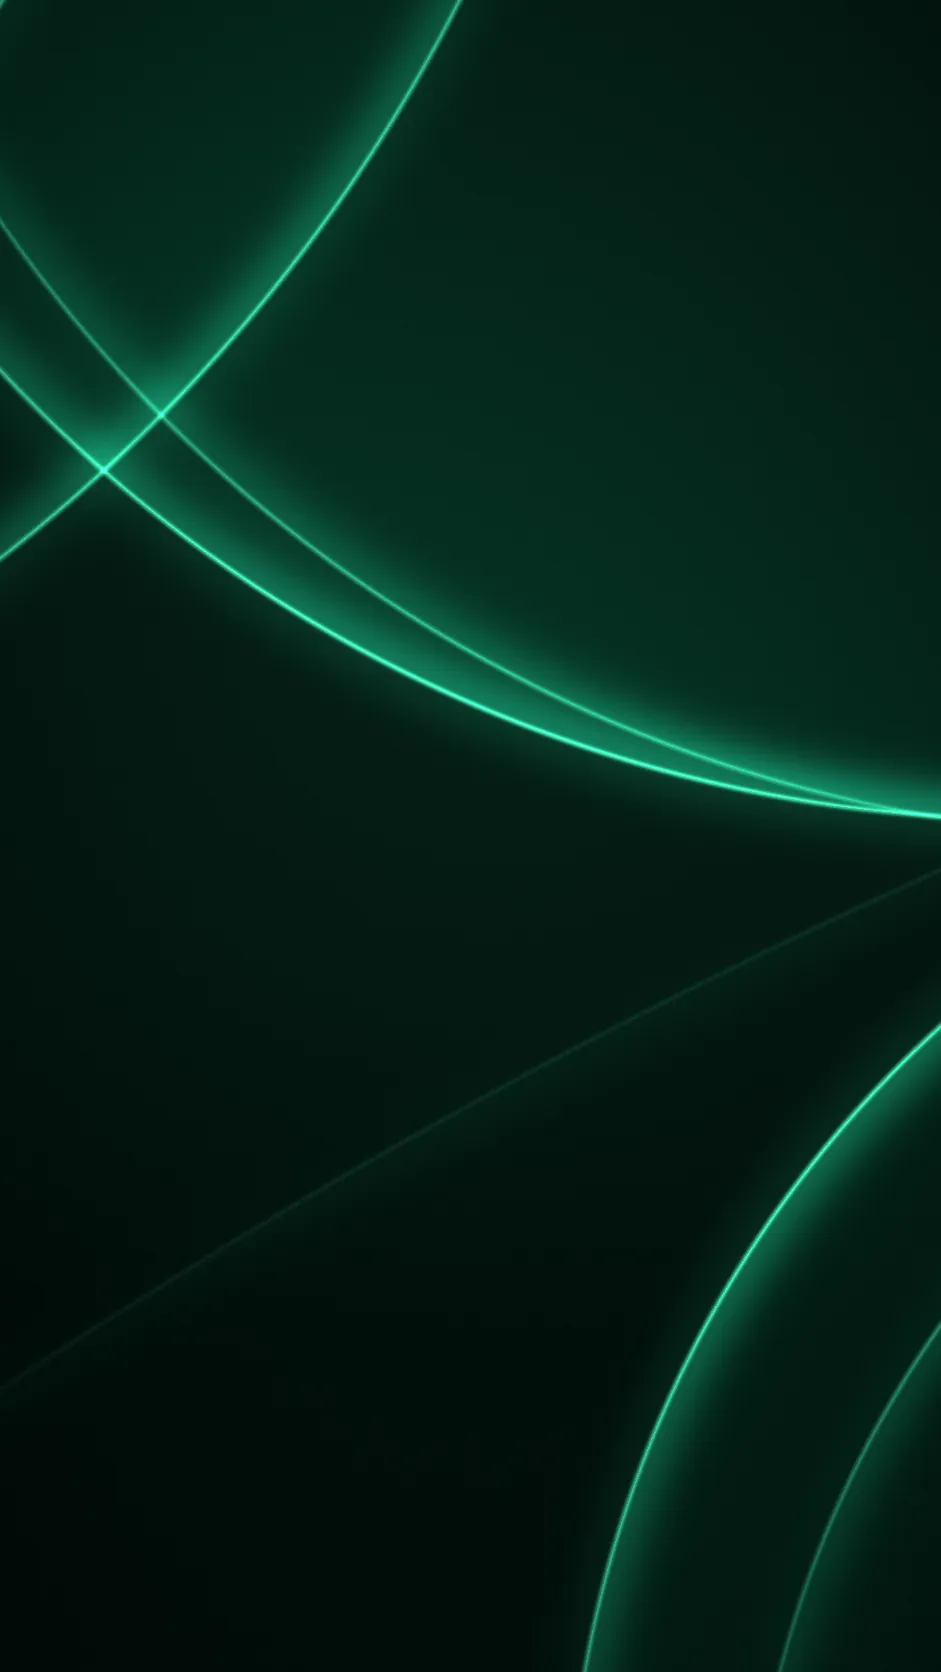
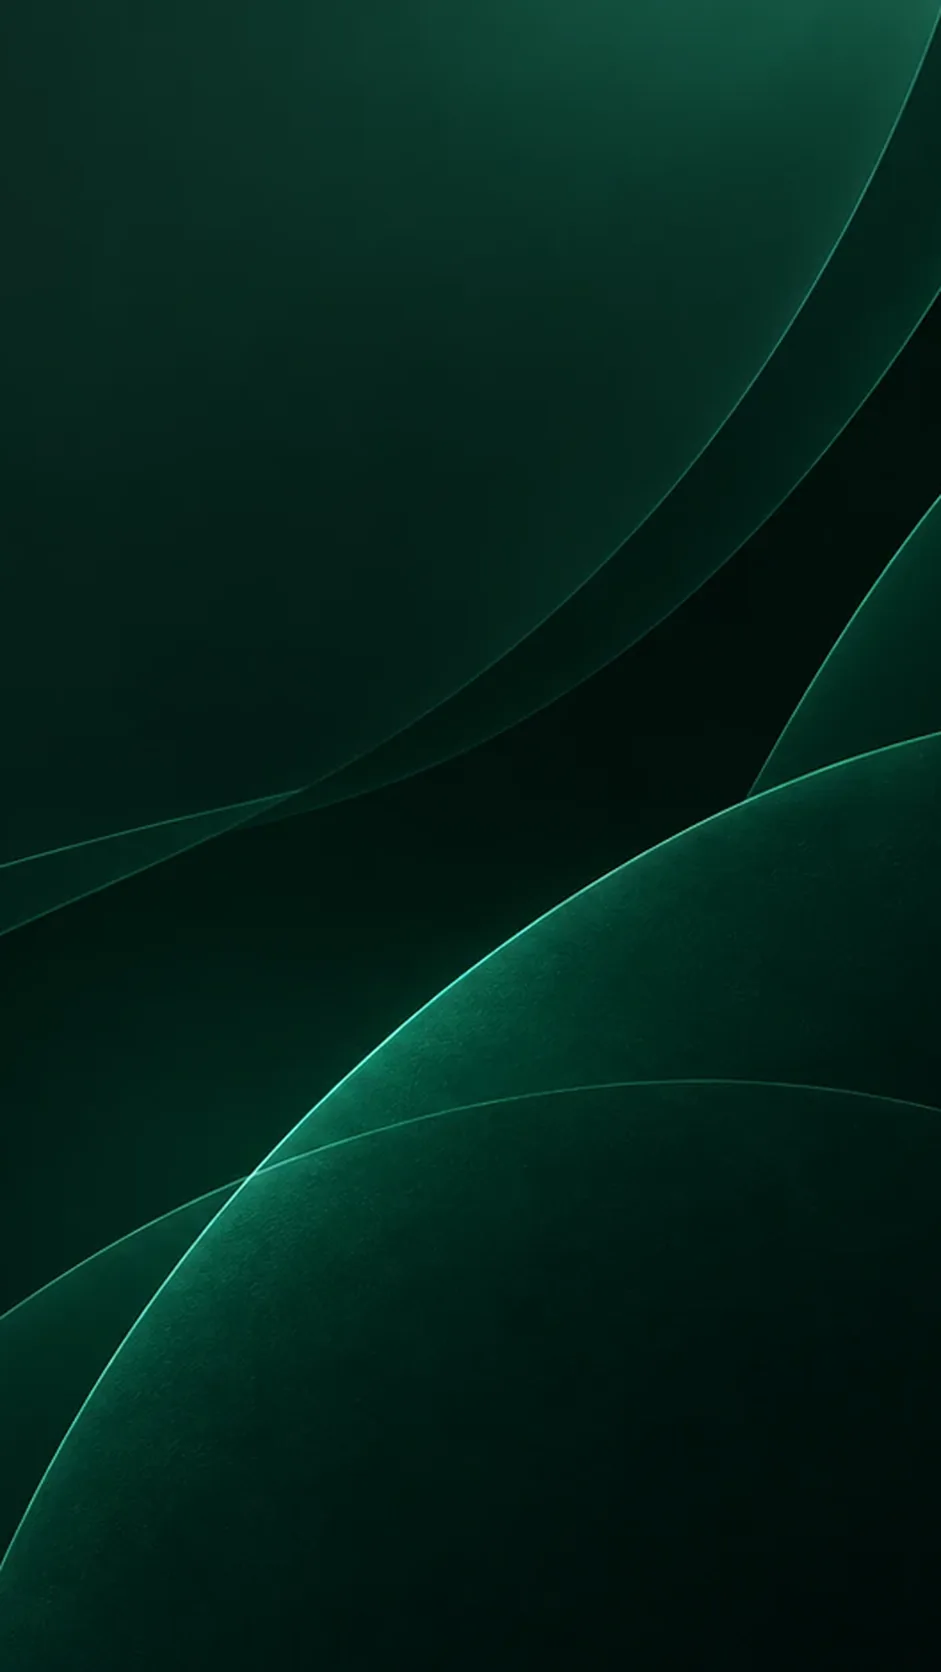
Use the supplied green wallpaper for chat and call backgrounds
Claude-Session: https://claude.ai/code/session_01SHXgtp5H5MrTn5P3Z991fA

diff --git a/public/css/app.css b/public/css/app.css
@@ -1665,7 +1665,7 @@ dialog.nodismiss .close{display:none!important}
 @media (max-width:860px){.mx-thread{background-size:480px 448px}}
 
 /* ---- chat in the dark design: curved backdrop, voice messages, files, call cards, unread line ---- */
-:root[data-theme=dark] .mx-thread{background-image:linear-gradient(rgba(3,14,11,.42),rgba(3,14,11,.42)),url(../img/call-bg-wide.webp);background-size:cover;background-position:center}
+:root[data-theme=dark] .mx-thread{background-image:linear-gradient(rgba(3,14,11,.30),rgba(3,14,11,.30)),url(../img/call-bg-wide.webp);background-size:cover;background-position:center}
 .mx-vn{display:flex;align-items:center;gap:12px;min-width:min(300px,60vw)}.mx-play{width:44px;height:44px;border-radius:50%;border:0;background:color-mix(in srgb,currentColor 14%,transparent);color:inherit;display:grid;place-items:center;flex:none;cursor:pointer}.mx-play svg{margin-left:2px}.mx-vn.playing .mx-play svg{display:none}.mx-vn.playing .mx-play:after{content:"";width:12px;height:14px;border-left:4px solid currentColor;border-right:4px solid currentColor}
 .mx-wv{display:flex;align-items:center;gap:2px;height:34px;flex:1}.mx-wv i{flex:1;max-width:5px;min-width:2px;border-radius:2px;background:currentColor;opacity:.35}.mx-wv i.on{background:#34d399;opacity:1}.mx-row:not(.me) .mx-wv i.on{background:var(--brand)}
 .mx-vd{font-size:.8rem;opacity:.75;align-self:flex-end;margin-bottom:2px;white-space:nowrap}.mx-b.has-vn{padding-right:14px}

diff --git a/public/index.html b/public/index.html
@@ -30,10 +30,10 @@
 <link rel="modulepreload" href="js/maps.js">
 <link rel="modulepreload" href="js/data.js">
 <link rel="modulepreload" href="js/tour.js">
-<script src="js/boot.js?v=2026-10-09.92"></script>
-<link rel="stylesheet" href="css/fonts.css?v=2026-10-09.92">
+<script src="js/boot.js?v=2026-10-09.93"></script>
+<link rel="stylesheet" href="css/fonts.css?v=2026-10-09.93">
 <link rel="stylesheet" href="https://cdnjs.cloudflare.com/ajax/libs/leaflet/1.9.4/leaflet.min.css">
-<link rel="stylesheet" href="css/app.css?v=2026-10-09.92">
+<link rel="stylesheet" href="css/app.css?v=2026-10-09.93">
 <style>
   /* Splash screen: inline so it paints before anything else loads. The artwork is your image: its lines are revealed (drawn) over 2 seconds. */
   #splash{position:fixed;inset:0;z-index:1000;overflow:hidden;color:#fff;background:#01100c;font-family:Inter,system-ui,sans-serif;clip-path:circle(150% at 50% 44%);transition:clip-path .95s cubic-bezier(.75,0,.2,1),opacity .95s ease-in}
@@ -92,6 +92,6 @@
 </div>
 <div id="app"></div>
 <noscript>Faxton Rentals needs JavaScript to run.</noscript>
-<script type="module" src="js/main.js?v=2026-10-09.92"></script>
+<script type="module" src="js/main.js?v=2026-10-09.93"></script>
 </body>
 </html>

diff --git a/public/sw.js b/public/sw.js
@@ -1,6 +1,6 @@
 // Faxton Rentals service worker: makes the app installable and fast to reopen.
 // Same-origin files are cached (network first for pages, cache first for assets). Firebase and map requests are never touched.
-const CACHE = "faxton-v92";
+const CACHE = "faxton-v93";
 const SHELL = ["./", "index.html", "css/app.css", "css/fonts.css", "manifest.webmanifest", "assets/mark.svg", "img/hero-hd.webp", "img/splash-final.webp"];
 self.addEventListener("install", (e) => { e.waitUntil(caches.open(CACHE).then((c) => c.addAll(SHELL)).then(() => self.skipWaiting())); });
 self.addEventListener("activate", (e) => { e.waitUntil(caches.keys().then((k) => Promise.all(k.filter((n) => n !== CACHE).map((n) => caches.delete(n)))).then(() => self.clients.claim())); });

diff --git a/public/js/ui.js b/public/js/ui.js
@@ -132,4 +132,4 @@ export const friendlyErr = (e) => ({
   "permission-denied": "You don't have permission to do that.", "unavailable": "Can't reach the server. Check your connection.",
 }[e?.code?.replace("firestore/", "")] || `Something went wrong. Please try again.${e?.code || e?.message ? ` (${String(e.code || e.message).slice(0, 120)})` : ""}`);
 
-export const BUILD = "2026-10-09.92";
+export const BUILD = "2026-10-09.93";
